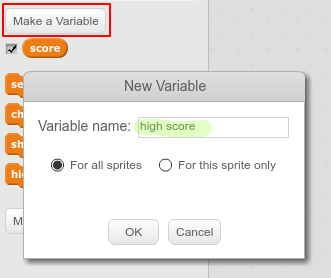
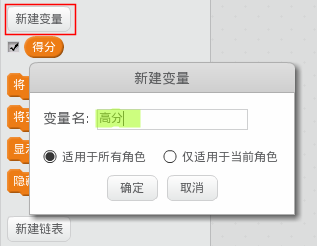
Add Portuguese (Brasil) / Update Chinese (Simplified)

diff --git a/zh-CN/step_1.md b/zh-CN/step_1.md
@@ -1,11 +1,11 @@
-记录游戏中的高分很有趣。 
+在游戏中记录高分很有意思。
 
-让我们假设你有一个名为 `score`（分数）的变量，该变量在每局游戏开始时设为零。 
+假设你有一个叫做`得分`的变量，它在每个游戏开始的时候被设置为0。
 
-添加另一个名为 `high score`（高分）的变量。 
+增加另一个叫做`高分`的变量。
 
-![screenshot](images/make-high-score-variable.png)
+![截屏](images/make-high-score-variable.png)
 
-在游戏结束时（或每次你想更新高分时），你将需要查看你是否有了新的 `high score`（高分）。 
+在游戏结束时（或者当你想要更新最高分的时候），你需要检查你是否有一个新的`高分`
 
-![screenshot](images/check-for-high-score.png)
+![截屏](images/check-for-high-score.png)

diff --git a/pt-BR/step_1.md b/pt-BR/step_1.md
@@ -1,0 +1,11 @@
+É divertido acompanhar a pontuação máxima em um jogo.
+
+Digamos que você tenha uma variável chamada de `pontuação`, que é zerada no início de cada jogo.
+
+Adicione outra variável chamada `pontuação máxima`.
+
+![screenshot](images/make-high-score-variable.png)
+
+No final do jogo (ou sempre que quiser atualizar a pontuação máxima), você precisará verificar se a `pontuação máxima` foi ultrapassada.
+
+![screenshot](images/check-for-high-score.png)
